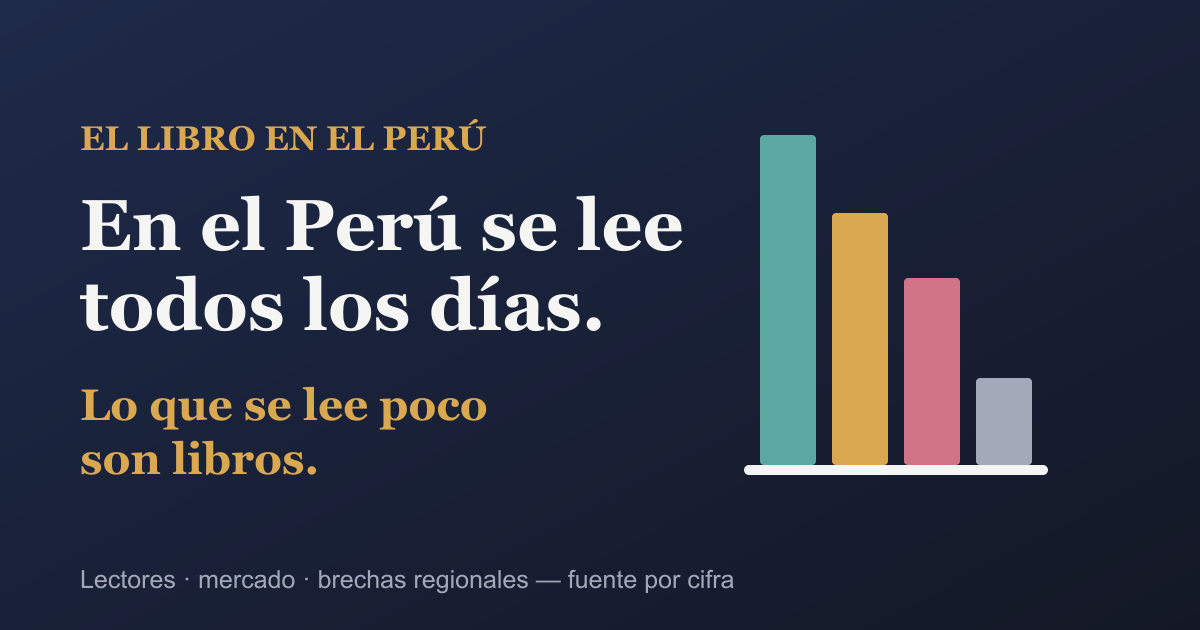
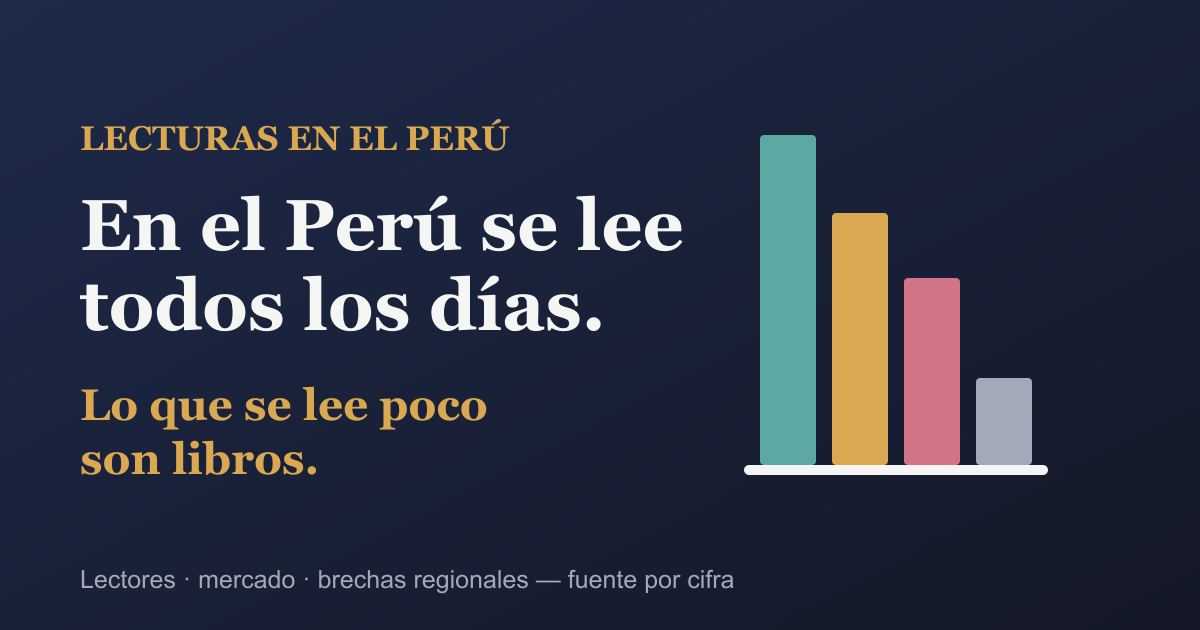
Rebrand a 'Lecturas en el Perú' + URL /lecturas-peru + Google Analytics
- Marca, títulos, OG/Twitter y canónicos a 'Lecturas en el Perú'.
- URLs a unimauro.github.io/lecturas-peru; og.png regenerada.
- Google Analytics (gtag G-HHMC6RDL90) en ambas páginas.
- Gateway: proyecto/token 'libro-peru' sin cambios (interno).

Changed region(s): [[0.0617, 0.181, 0.4317, 0.2413]]

diff --git a/docs/recomendaciones.html b/docs/recomendaciones.html
@@ -2,32 +2,40 @@
 <html lang="es"><head><meta charset="utf-8">
 <meta name="viewport" content="width=device-width, initial-scale=1, viewport-fit=cover">
 <script>(function(){try{var t=localStorage.getItem('tema');document.documentElement.setAttribute('data-theme',t==='dark'?'dark':'light');}catch(e){document.documentElement.setAttribute('data-theme','light');}})();</script>
+<!-- Google tag (gtag.js) -->
+<script async src="https://www.googletagmanager.com/gtag/js?id=G-HHMC6RDL90"></script>
+<script>
+  window.dataLayer = window.dataLayer || [];
+  function gtag(){dataLayer.push(arguments);}
+  gtag('js', new Date());
+  gtag('config', 'G-HHMC6RDL90');
+</script>
 <title>Recomendaciones: el libro y la lectura en el Perú</title>
 <meta name="description" content="Recomendaciones de política pública e innovación por actor para el ecosistema del libro en el Perú, con fuente por cifra.">
-<link rel="canonical" href="https://unimauro.github.io/libro-peru/recomendaciones.html">
+<link rel="canonical" href="https://unimauro.github.io/lecturas-peru/recomendaciones.html">
 <link rel="icon" href="favicon.svg" type="image/svg+xml">
 <link rel="icon" href="favicon-32.png" sizes="32x32" type="image/png">
 <link rel="apple-touch-icon" href="apple-touch-icon.png">
 <meta name="theme-color" content="#1E2A4A">
 <meta property="og:type" content="article">
-<meta property="og:site_name" content="El libro en el Perú">
+<meta property="og:site_name" content="Lecturas en el Perú">
 <meta property="og:locale" content="es_PE">
 <meta property="og:title" content="Recomendaciones: el libro y la lectura en el Perú">
 <meta property="og:description" content="Política pública e innovación por actor para el ecosistema del libro en el Perú, con fuente por cifra.">
-<meta property="og:url" content="https://unimauro.github.io/libro-peru/recomendaciones.html">
-<meta property="og:image" content="https://unimauro.github.io/libro-peru/og.png">
+<meta property="og:url" content="https://unimauro.github.io/lecturas-peru/recomendaciones.html">
+<meta property="og:image" content="https://unimauro.github.io/lecturas-peru/og.png">
 <meta property="og:image:width" content="1200">
 <meta property="og:image:height" content="630">
 <meta name="twitter:card" content="summary_large_image">
 <meta name="twitter:title" content="Recomendaciones: el libro y la lectura en el Perú">
 <meta name="twitter:description" content="Política pública e innovación por actor, con fuente por cifra.">
-<meta name="twitter:image" content="https://unimauro.github.io/libro-peru/og.png">
+<meta name="twitter:image" content="https://unimauro.github.io/lecturas-peru/og.png">
 <link rel="preconnect" href="https://fonts.googleapis.com"><link rel="preconnect" href="https://fonts.gstatic.com" crossorigin>
 <link href="https://fonts.googleapis.com/css2?family=Literata:opsz,wght@7..72,400;7..72,600;7..72,800&family=Archivo:wght@400;600&display=swap" rel="stylesheet">
 <link rel="stylesheet" href="estilos.css"></head>
 <body>
 <a class="saltar" href="#contenido">Ir al contenido</a>
-<header class="barra"><div class="barra-in"><a class="marca" href="index.html">El libro en el Perú</a>
+<header class="barra"><div class="barra-in"><a class="marca" href="index.html">Lecturas en el Perú</a>
 <nav aria-label="Secciones"><a href="index.html">Tablero</a><a href="#4-recomendaciones-de-politica-publica">Política pública</a><a href="#5-estrategias-de-innovacion-por-actor">Estrategias por actor</a><a href="#6-hoja-de-ruta">Hoja de ruta</a><a href="descargas/Estudio_Mercado_Libro_Peru_2026.docx" class="destacado">Descargar Word</a><button id="tema" class="tema" type="button" aria-label="Cambiar tema">☾</button></nav></div></header>
 <main id="contenido" class="doc">
 <h1>El libro y la lectura en el Perú</h1>

diff --git a/docs/index.html b/docs/index.html
@@ -4,9 +4,17 @@
 <meta charset="utf-8">
 <meta name="viewport" content="width=device-width, initial-scale=1, viewport-fit=cover">
 <script>(function(){try{var t=localStorage.getItem('tema');document.documentElement.setAttribute('data-theme',t==='dark'?'dark':'light');}catch(e){document.documentElement.setAttribute('data-theme','light');}})();</script>
-<title>El libro en el Perú: lectores, mercado y brechas</title>
+<!-- Google tag (gtag.js) -->
+<script async src="https://www.googletagmanager.com/gtag/js?id=G-HHMC6RDL90"></script>
+<script>
+  window.dataLayer = window.dataLayer || [];
+  function gtag(){dataLayer.push(arguments);}
+  gtag('js', new Date());
+  gtag('config', 'G-HHMC6RDL90');
+</script>
+<title>Lecturas en el Perú: lectores, mercado y brechas</title>
 <meta name="description" content="Tablero con datos verificables sobre lectura, mercado editorial y políticas del libro en el Perú, con implicancias por actor.">
-<link rel="canonical" href="https://unimauro.github.io/libro-peru/">
+<link rel="canonical" href="https://unimauro.github.io/lecturas-peru/">
 
 <!-- Favicon -->
 <link rel="icon" href="favicon.svg" type="image/svg+xml">
@@ -16,19 +24,19 @@
 
 <!-- Open Graph / Twitter -->
 <meta property="og:type" content="website">
-<meta property="og:site_name" content="El libro en el Perú">
+<meta property="og:site_name" content="Lecturas en el Perú">
 <meta property="og:locale" content="es_PE">
-<meta property="og:title" content="El libro en el Perú: lectores, mercado y brechas">
+<meta property="og:title" content="Lecturas en el Perú: lectores, mercado y brechas">
 <meta property="og:description" content="En el Perú se lee todos los días; lo que se lee poco son libros. Tablero con datos verificables y fuente por cifra.">
-<meta property="og:url" content="https://unimauro.github.io/libro-peru/">
-<meta property="og:image" content="https://unimauro.github.io/libro-peru/og.png">
+<meta property="og:url" content="https://unimauro.github.io/lecturas-peru/">
+<meta property="og:image" content="https://unimauro.github.io/lecturas-peru/og.png">
 <meta property="og:image:width" content="1200">
 <meta property="og:image:height" content="630">
-<meta property="og:image:alt" content="El libro en el Perú — lectura por tipo de publicación">
+<meta property="og:image:alt" content="Lecturas en el Perú — lectura por tipo de publicación">
 <meta name="twitter:card" content="summary_large_image">
-<meta name="twitter:title" content="El libro en el Perú: lectores, mercado y brechas">
+<meta name="twitter:title" content="Lecturas en el Perú: lectores, mercado y brechas">
 <meta name="twitter:description" content="En el Perú se lee todos los días; lo que se lee poco son libros. Datos verificables con fuente por cifra.">
-<meta name="twitter:image" content="https://unimauro.github.io/libro-peru/og.png">
+<meta name="twitter:image" content="https://unimauro.github.io/lecturas-peru/og.png">
 
 <link rel="preconnect" href="https://fonts.googleapis.com">
 <link rel="preconnect" href="https://fonts.gstatic.com" crossorigin>
@@ -39,7 +47,7 @@
 <a class="saltar" href="#contenido">Ir al contenido</a>
 <header class="barra">
   <div class="barra-in">
-    <a class="marca" href="index.html">El libro en el Perú</a>
+    <a class="marca" href="index.html">Lecturas en el Perú</a>
     <nav aria-label="Secciones">
       <a href="#lectores">Lectores</a>
       <a href="#no-lectura">Por qué no se lee</a>

diff --git a/docs/chat.js b/docs/chat.js
@@ -16,7 +16,7 @@
 
   var panel = el('div','chat-panel'); panel.hidden = true;
   panel.setAttribute('role','dialog');
-  panel.setAttribute('aria-label','Asistente del estudio El libro en el Perú');
+  panel.setAttribute('aria-label','Asistente del estudio Lecturas en el Perú');
 
   var cab = el('div','chat-cab');
   cab.appendChild(el('span','pt'));
@@ -55,7 +55,7 @@
   var saludado = false;
   function saludar(){
     if(saludado) return; saludado = true;
-    burbuja('bot','Hola 👋 Soy el asistente del estudio «El libro en el Perú». Pregúntame por las cifras de lectura, el mercado editorial o las brechas regionales. No invento datos: cada cifra viene de las fuentes del tablero.');
+    burbuja('bot','Hola 👋 Soy el asistente del estudio «Lecturas en el Perú». Pregúntame por las cifras de lectura, el mercado editorial o las brechas regionales. No invento datos: cada cifra viene de las fuentes del tablero.');
   }
 
   function abrir(){ panel.hidden=false; boton.hidden=true; boton.setAttribute('aria-expanded','true'); saludar(); setTimeout(function(){input.focus();},60); }

diff --git a/docs/chat-config.js b/docs/chat-config.js
@@ -1,4 +1,4 @@
-/* Configuración del asistente del estudio "El libro en el Perú".
+/* Configuración del asistente del estudio "Lecturas en el Perú".
    El sitio es estático y público: este token viaja al cliente. El gateway
    ai.tunky.net valida además por allowlist de Origin (unimauro.github.io).
    >>> Pega aquí el token de cliente (formato libro_… o el que uses en el servidor). <<< */
@@ -9,7 +9,7 @@ window.CHAT_CONFIG = {
   nombre: "Asistente del estudio",
   // Guardarraíles: el gateway recibe esto como contexto de sistema.
   system: [
-    "Eres el asistente del observatorio independiente «El libro en el Perú».",
+    "Eres el asistente del observatorio independiente «Lecturas en el Perú».",
     "Respondes en español del Perú, en tono claro y breve.",
     "Tu único tema son los datos del estudio: hábitos de lectura, mercado editorial,",
     "producción (ISBN), escuela/ENLA, brechas regionales y marco normativo del libro en el Perú.",

diff --git a/docs/estilos.css b/docs/estilos.css
@@ -1,5 +1,5 @@
 /* ============================================================
-   El libro en el Perú — hoja de estilos
+   Lecturas en el Perú — hoja de estilos
    Identidad editorial: papel cálido, tinta de imprenta, oro/teal/granate.
    Claro por defecto; oscuro con relieve real vía [data-theme="dark"].
    ============================================================ */

diff --git a/README.md b/README.md
@@ -1,6 +1,6 @@
-# El libro y la lectura en el Perú
+# Lecturas en el Perú
 
-**🌐 Sitio: https://unimauro.github.io/libro-peru/**
+**🌐 Sitio: https://unimauro.github.io/lecturas-peru/**
 
 Diagnóstico del mercado del libro y de los hábitos de lectura en el Perú. Incluye un dashboard web, recomendaciones de política pública y estrategias de innovación por actor. Cada cifra tiene fuente; lo que no se pudo verificar se declara como vacío.
 
@@ -31,14 +31,14 @@ Diagnóstico del mercado del libro y de los hábitos de lectura en el Perú. Inc
    ```bash
    git init
    git add .
-   git commit -m "Estudio mercado del libro Perú v1.0"
+   git commit -m "Lecturas en el Perú v1.1"
    git branch -M main
-   git remote add origin https://github.com/TU_USUARIO/libro-peru.git
+   git remote add origin https://github.com/TU_USUARIO/lecturas-peru.git
    git push -u origin main
    ```
 
 3. En GitHub, ve a **Settings → Pages**. En *Build and deployment* elige **Deploy from a branch**, rama `main` y carpeta `/docs`. Guarda.
-4. En uno o dos minutos el sitio queda en `https://TU_USUARIO.github.io/libro-peru/`.
+4. En uno o dos minutos el sitio queda en `https://TU_USUARIO.github.io/lecturas-peru/`.
 
 La interfaz de GitHub puede cambiar. Si los nombres de menú no coinciden, consulta la documentación oficial de GitHub Pages.
 
